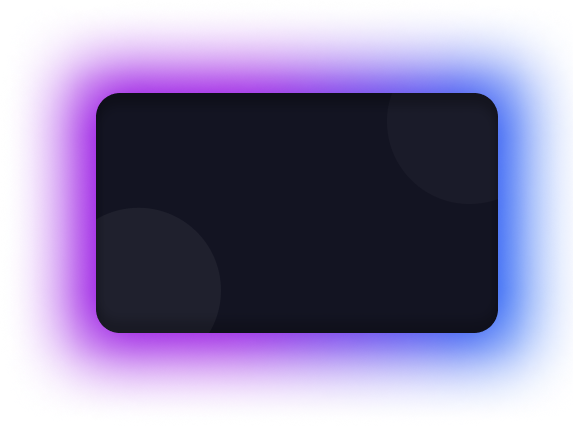
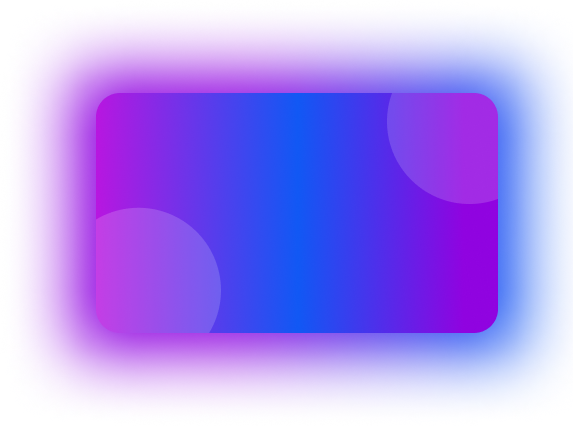
- Fixes designs

diff --git a/src/screens/archallenge/styles.js b/src/screens/archallenge/styles.js
@@ -9,7 +9,7 @@ import { FontFamily, FontLineHeights, FontSizes, fontGroup } from "../../util/Fo
 
 const useStyles = makeStyles(theme => ({
   heading: {
-    fontSize: FontSizes.S18,
+    fontSize: FontSizes.S14,
     lineHeight: FontLineHeights.LH25,
     ...fontGroup.ns700,
     color: theme.colors.white,
@@ -41,9 +41,9 @@ const useStyles = makeStyles(theme => ({
     marginVertical:10
   },
   buttonSelectText: {
-    ...fontGroup.p400,
     fontSize: FontSizes.S14,
     color: theme.colors.white,
+    fontWeight:'bold'
   },
   selectButtonStyle:
   {

diff --git a/src/screens/archallenge/index.js b/src/screens/archallenge/index.js
@@ -84,7 +84,6 @@ const ArChallenge = ({
       <AppHeader
         centerComponent={{
           text: "Anywhere AR Challenges",
-          numberOfLines: 2,
           style: [_styles.heading],
         }} backgroundColor="transparent" />
       <View style={_styles.rowView}>
